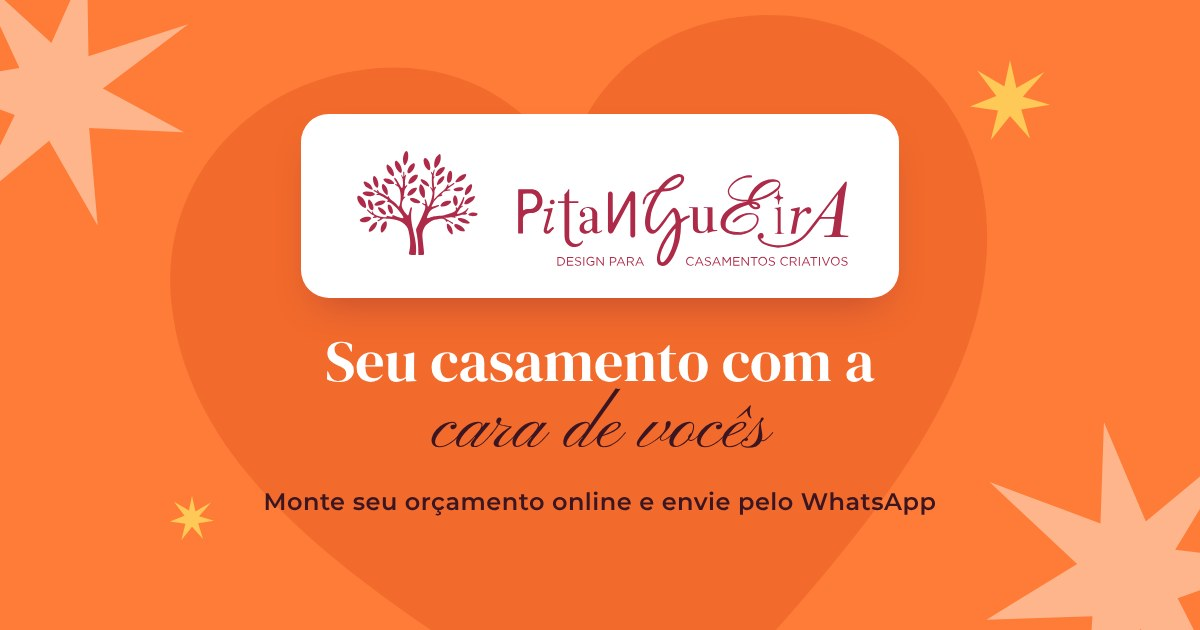
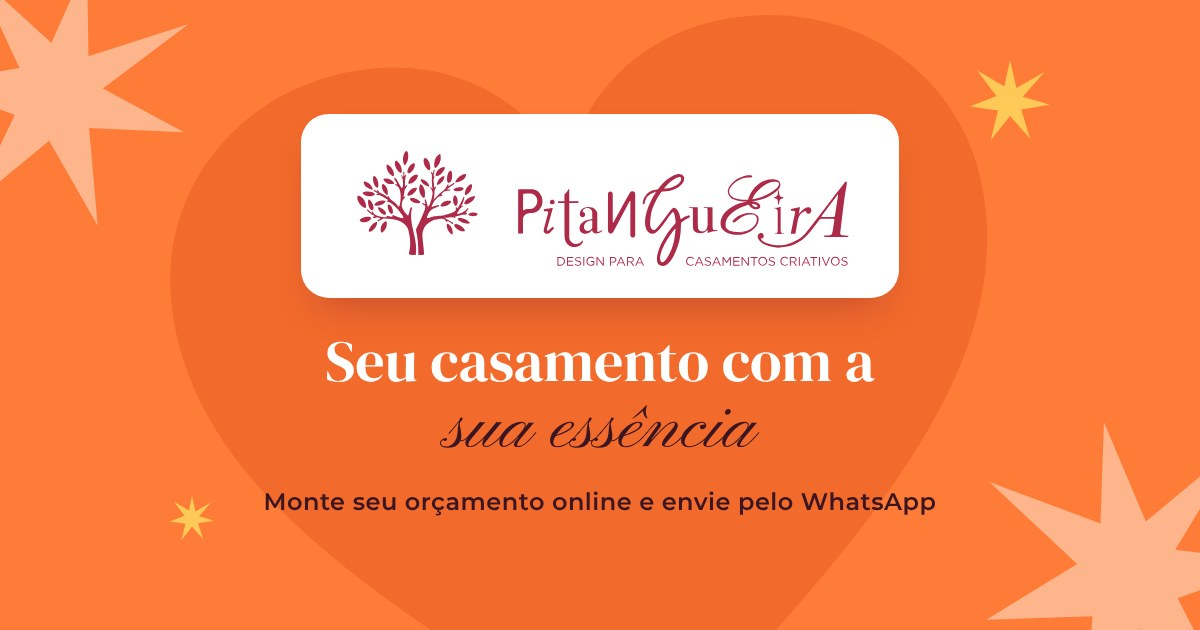
Hero fixo com 'sua essência' (remove 'cara de vocês' e a alternância)
Imagem de prévia do link atualizada com a mesma frase.

Claude-Session: https://claude.ai/code/session_01Yc9Z8uQ7svTtH3FB4Mo46w

Changed region(s): [[0.3392, 0.6032, 0.6475, 0.7238]]

diff --git a/public/index.html b/public/index.html
@@ -18,7 +18,7 @@
 <meta property="og:image" content="/og.jpg">
 <meta property="og:image:width" content="1200">
 <meta property="og:image:height" content="630">
-<meta property="og:image:alt" content="Pitangueira: seu casamento com a cara de vocês">
+<meta property="og:image:alt" content="Pitangueira: seu casamento com a sua essência">
 <meta name="twitter:card" content="summary_large_image">
 <link rel="preconnect" href="https://fonts.googleapis.com">
 <link rel="preconnect" href="https://fonts.gstatic.com" crossorigin>
@@ -117,15 +117,9 @@
   /* Entrada do hero, em cascata */
   .entra { animation: entra 800ms var(--ease-out) backwards; animation-delay: calc(100ms + var(--d, 0) * 110ms); }
   @keyframes entra { from { opacity: 0; transform: translateY(22px); } }
-  /* "cara de vocês" se escrevendo */
+  /* "sua essência" se escrevendo */
   .hero h1 .script { clip-path: inset(-20% 0 -20% 0); animation: escreve 1300ms var(--ease-in-out) 650ms backwards; }
   @keyframes escreve { from { clip-path: inset(-20% 100% -20% 0); } }
-  /* Frases que se alternam no título (empilhadas, sem pular o layout) */
-  .hero h1 .script.troca { display: grid; justify-items: center; clip-path: none; animation: none; }
-  .troca .frase { grid-area: 1 / 1; clip-path: inset(-20% 100% -20% 0); white-space: nowrap; }
-  .troca .frase.ativa { clip-path: inset(-20% 0 -20% 0); animation: escreve 1300ms var(--ease-in-out) backwards; }
-  .troca .frase.ativa.primeira { animation-delay: 650ms; }
-  .troca .frase.saindo { clip-path: inset(-20% 0 -20% 0); opacity: 0; transform: translateY(-12px); transition: opacity 450ms var(--ease-out), transform 450ms var(--ease-out); }
 
   /* Faixa de serviços rolando */
   .faixa-servicos { background: var(--bordo); color: #fff; overflow: hidden; padding: 16px 0; border-top: 3px solid var(--amarelo); }
@@ -516,7 +510,7 @@
     <div class="container">
       <img class="icone-hero entra" src="marca/icone-branco.svg" alt="" aria-hidden="true">
       <span class="etiqueta entra" style="--d:1">Design & papelaria criativa para casamentos</span>
-      <h1 class="entra" style="--d:2">Seu casamento com a <span class="script troca" aria-hidden="true"><span class="frase ativa primeira">cara de vocês</span><span class="frase">sua essência</span></span><span class="sr">cara de vocês, com a sua essência</span></h1>
+      <h1 class="entra" style="--d:2">Seu casamento com a <span class="script">sua essência</span></h1>
       <a class="dupla entra" style="--d:3" href="#sobre">
         <span class="rostos" aria-hidden="true"><img src="fotos/petala.webp" alt="" width="440" height="520"><img src="fotos/isa.webp" alt="" width="391" height="413"></span>
         <span class="quem"><strong>Pétala & Isa</strong> duas designers fora da caixa</span>
@@ -947,23 +941,6 @@ function mudou(id) {
   atualizarResumo();
 }
 
-/* ---------- Frase alternada do hero ---------- */
-function alternarFrases() {
-  const frases = [...document.querySelectorAll(".troca .frase")];
-  if (frases.length < 2 || semMovimento) return;
-  let atual = 0;
-  setInterval(() => {
-    if (document.hidden) return;
-    const sai = frases[atual];
-    atual = (atual + 1) % frases.length;
-    const entra = frases[atual];
-    sai.classList.remove("ativa", "primeira");
-    sai.classList.add("saindo");
-    setTimeout(() => sai.classList.remove("saindo"), 500);
-    entra.classList.add("ativa");
-  }, 4500);
-}
-
 /* ---------- Atalhos de categoria ---------- */
 function montarAtalhos() {
   const nav = $("#atalhos");
@@ -1337,7 +1314,6 @@ $("#ano").textContent = new Date().getFullYear();
 montarCatalogo();
 montarAtalhos();
 montarDuvidas();
-alternarFrases();
 montarCinema();
 document.querySelectorAll("#catalogo .cab-cat").forEach(el => revelar(el));
 document.querySelectorAll("#catalogo .itens").forEach(g => [...g.children].forEach((el, i) => revelar(el, i % 4)));
